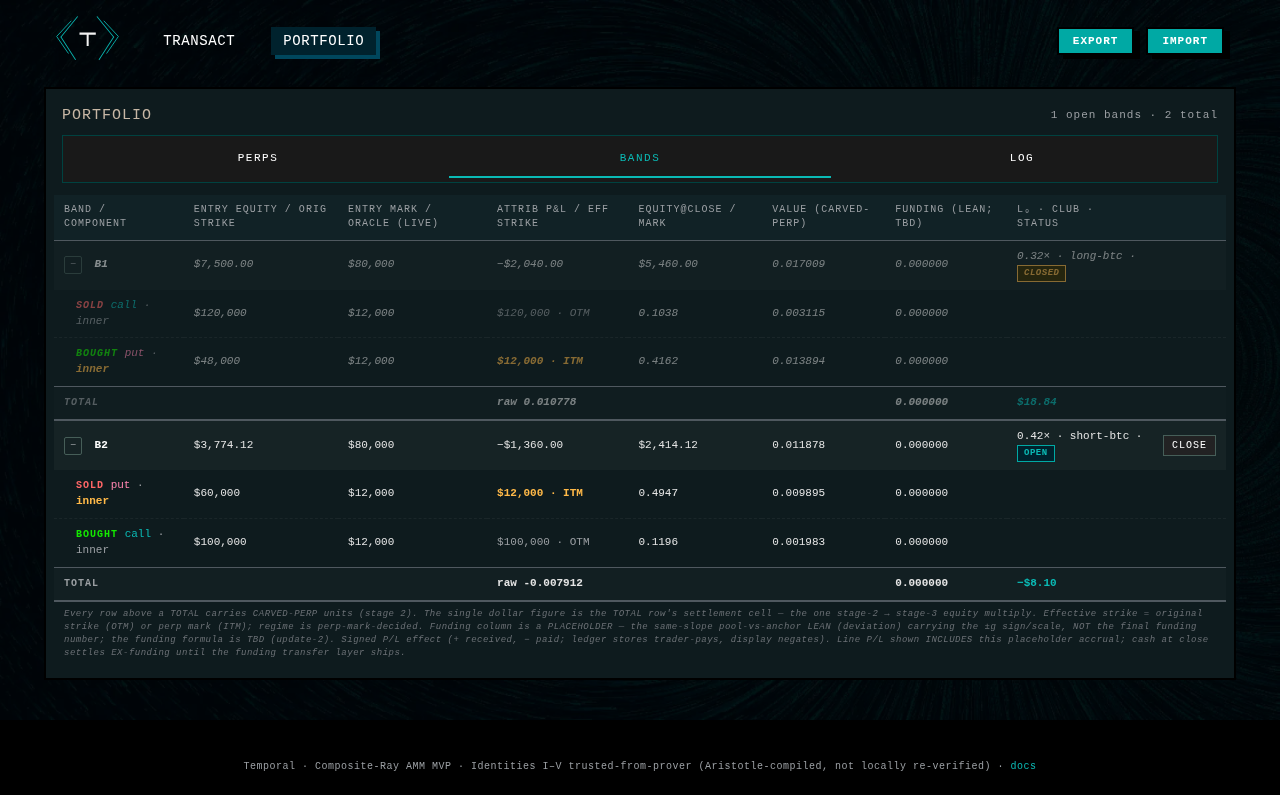
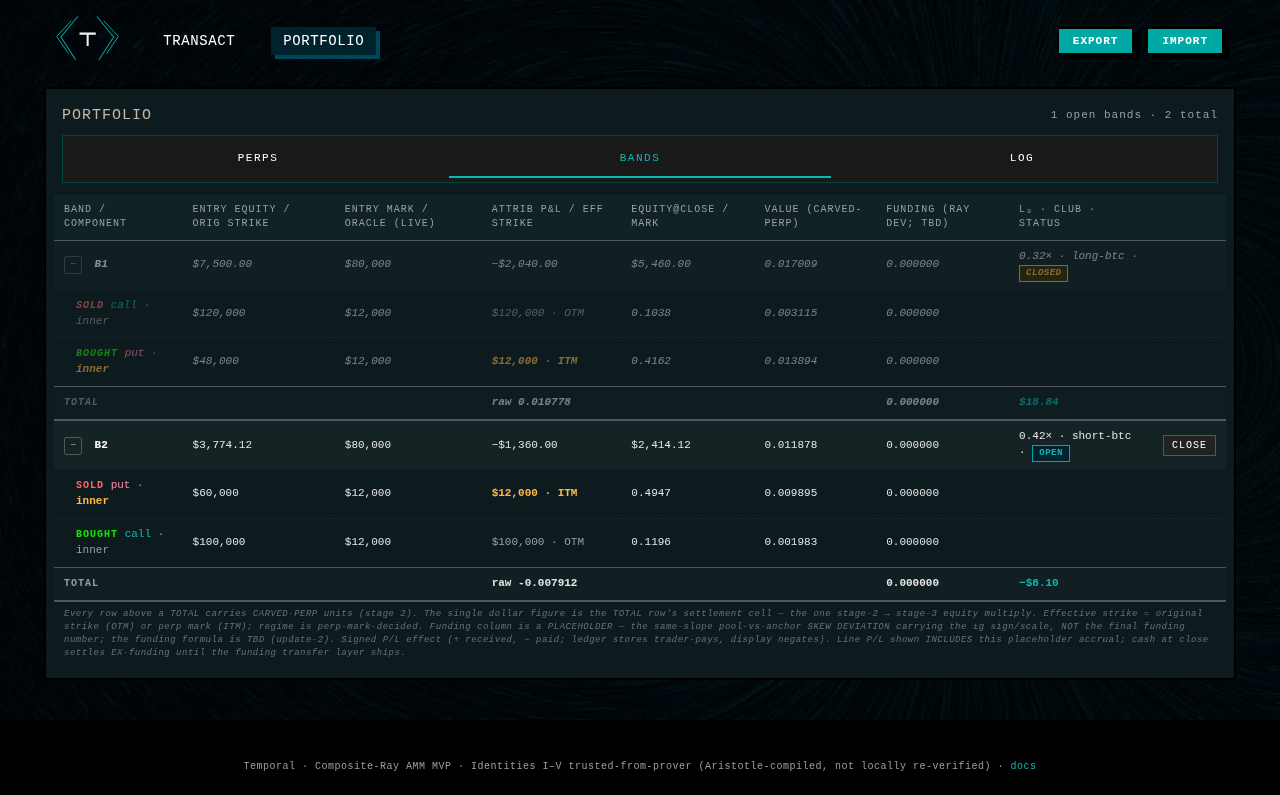
test: TESTER-CONFIRMED vocab relabel (HEAD 5ce1a76c) + evidence/ledger
Live-browser + oracle re-check of the text-only "lean"->"ray deviation"
relabel. FLAG verdict PASS:
- header renders "Funding (ray dev; TBD)"; tooltip "same-slope ray
  deviation from the anchor curve"; units-note "SKEW DEVIATION"; zero
  visible funding-"lean" (TreeWalker + title-attr scan).
- behavior byte-identical, proven two ways: git diff = 3 strings + 7
  comments, the 2 executable lines byte-unchanged; re-run w=11/21 exact,
  m-knob steepens, charts render, funding/pricing/close unchanged.
- standing UI smoke 17/17 PASS x2; run_all 41+5 + vocab_gate PASS;
  blobs canonical; engine md5 unchanged pre/post (tester read-only).

Adds engine/verify/pw_vocab_relabel_acceptance.mjs, evidence/vocab_relabel/,
DIFF_LEDGER 5ce1a76c entry, tester MEMORY.

Claude-Session: https://claude.ai/code/session_01Cs1cJ4yQMcmxqbEVrDpqHd

diff --git a/engine/builds/DIFF_LEDGER.md b/engine/builds/DIFF_LEDGER.md
@@ -18,7 +18,7 @@ transcripts to distill my objections to each version, open questions etc."** (op
 ## ⭐ FEATURE-STATE TABLE (rolling — the at-a-glance inventory; tester updates rows whose feature
 changed, every entry, no exceptions)
 
-| # | Feature (inventory) | Current state (HEAD = **`abd35f4b`** funding SAME-SLOPE pool-vs-anchor DEVIATION placeholder (2026-07-08; deviation-only, formula TBD update-2; OTM lobe, 0 ATM/ITM, 0 on w=½ pool = anti-regression signature) ← **`bb2f8230`** UPDATE-1 unified sell-back close + funding-on-extrinsic (2026-07-07; BOTH legs reverse on the AMM — two-case ITM-to-cash branch RETIRED; funding weight = option-part/extrinsic ⇒ ZERO ITM, single ATM hump; bounded ~$29–200 non-extractable x-drain BY DESIGN) ← prior **`51342574`** -FPNL-NEGZERO display fix (2026-07-07; −0 guard on the 3 funding display cells, 2 expressions; engine+state byte-identical) ← **`4bc939ec`** FUNDING-P/L column slice (2026-07-03, operator entry 425, display/read layer on ratified `0e0a0062`; engine+state byte-identical) ← **`0e0a0062`** trade-point conservation + caption slice (2026-07-02, entries 339/377, #16 PROVISIONAL; chain e148c9b7 ← 7015c22c ← 9fdde1de ← dd6fb955 ← 8f897edc). Prior header kept: latest CANDIDATE = **CONSTMULT `8f897edc`** (constant slope-multiplier lens, operator entries 229/231, gates HEAD on this smoke + skeptic; supersedes invtx `5fea0e8d` tx-strike map); prior promoted HEAD line v28 A14 at-strike `de28c937` / polar-lens `7e1ae39b`), 2026-06-12 — v24 base + polar lens read/write/settle + cleanup C1–C9 + one-line slippage-refresh wire; promoted from FINAL `989752294` per entries 84/94/96/106; v27 `928cde1c` + GH v26c `6cc73563` demoted/retained) | Last changed | Verdict |
+| # | Feature (inventory) | Current state (HEAD = **`5ce1a76c`** VOCAB SCRUB (2026-07-08; TEXT-ONLY relabel of `abd35f4b` — term "lean"→"skew / ray deviation" in the Funding column header/tooltip/units-note + 7 engine comments; NO logic/numeric/signature change; vocab_gate wired HARD) ← **`abd35f4b`** funding SAME-SLOPE pool-vs-anchor DEVIATION placeholder (2026-07-08; deviation-only, formula TBD update-2; OTM lobe, 0 ATM/ITM, 0 on w=½ pool = anti-regression signature) ← **`bb2f8230`** UPDATE-1 unified sell-back close + funding-on-extrinsic (2026-07-07; BOTH legs reverse on the AMM — two-case ITM-to-cash branch RETIRED; funding weight = option-part/extrinsic ⇒ ZERO ITM, single ATM hump; bounded ~$29–200 non-extractable x-drain BY DESIGN) ← prior **`51342574`** -FPNL-NEGZERO display fix (2026-07-07; −0 guard on the 3 funding display cells, 2 expressions; engine+state byte-identical) ← **`4bc939ec`** FUNDING-P/L column slice (2026-07-03, operator entry 425, display/read layer on ratified `0e0a0062`; engine+state byte-identical) ← **`0e0a0062`** trade-point conservation + caption slice (2026-07-02, entries 339/377, #16 PROVISIONAL; chain e148c9b7 ← 7015c22c ← 9fdde1de ← dd6fb955 ← 8f897edc). Prior header kept: latest CANDIDATE = **CONSTMULT `8f897edc`** (constant slope-multiplier lens, operator entries 229/231, gates HEAD on this smoke + skeptic; supersedes invtx `5fea0e8d` tx-strike map); prior promoted HEAD line v28 A14 at-strike `de28c937` / polar-lens `7e1ae39b`), 2026-06-12 — v24 base + polar lens read/write/settle + cleanup C1–C9 + one-line slippage-refresh wire; promoted from FINAL `989752294` per entries 84/94/96/106; v27 `928cde1c` + GH v26c `6cc73563` demoted/retained) | Last changed | Verdict |
 |---|---|---|---|---|
 | 1 | Balancer base | **HEAD (v27) IS the (W) family on the literal Balancer base** F=x^w·y^(1−w) with position-dependent w(u;φ); τ→∞ recovers plain Balancer. **UX-restore `9d22cffd`: v24 dollar defaults BACK** — oracle 80000, x=10 BTC, marginal=$80,000.000 at load (y0=303,448.28 chosen so load is equilibrium — differs from v24's 800,000; flagged below). Same tabs/KPI labels/chart views/perp+band defaults as v24 (tester side-by-side). **Display-fix `1eebfcd6`: Spot($)/Spot KPI + hdr-pool-spot re-pointed to the marginal getMP_raw — $80,000.00 / 1.0000 / "spot $80,000.00" at load (v24 values)** | entry-46 smoke (`928cde1c`, FINDING-R) | DESIRABLE — v24 feel restored; Spot-KPI basis RECONCILED-in-`1eebfcd6` (y0 delta OPEN-for-ruling). **NEW OPEN (entry-46 smoke, FINDING-R): post-rebase Spot($)/hdr-pool-spot show POOL-FRAME getMP_raw, not current-$ poolMark — oracle→90000 makes Spot($) read $71,232 then post-arb $80,000 beside an Oracle box reading 90000; honest at r=1 only. Display-only; engine self-consistent** |
 | 2 | Curve warp w(u) | HEAD: explicit (W) weight-field w(u;φ); warp = field-center φ shift; engine-correct (selfcheck 21 PASS); curve renders across frame. On-screen per-trade warp is SUBTLE (≈0.5–1px; verified elbow-local — sweep shows no τ matches v24's global warp with frozen wings) | entry-46 fix `928cde1c` (anchor overlay) | HEAD — engine PASS; visual subtlety ACCEPTED (override). **ENTRY-46: anchor (w=½) overlay FIXED-verified — k=√(x·y)=1,742 (was 170.83, 104× low); passes 1.15px from the live reserves dot, pixel-confirmed on the entry-45 frame (`I3_anchor_curve_default.png` re-shoot).** **ENTRY-30 obs: warp is premium-driven only (φ=f(dy=±premium)); constant-premium-further-OTM does NOT warp more — operator CHECK-1 claim NOT reproduced, see OPEN -1.** **ENTRY-45 obs: τ visual authority intrinsically small on the default frame — re-anchoring pins the elbow at the live point and wing shift is along-tangent (self-sliding); full-range τ 0.05→3.00 max 153.7px at wing tail yet perceived shape ~unchanged (screenshots); per-click (±0.05) 3.4px max = sub-visible. Redraw FIRES (canvas diff every step). See OPEN -2** **▶ C16 (`abd46149`): GOAL-SEEK readout added — G input ⇒ w′=Engine.goalSeekW(G)=G/(1+G), advisory only (drives nothing); G=3⇒0.7500/γ′3, G=0.5⇒"G≥1 required" NaN-loud, tester live ×2.** **▶ -A14b SEEN-warp (test on `de28c937`, 2026-06-12): the chart-2 option-value reshape DOES depend on kurtosis — for a fixed sold-call trade the |Δψ| reshape grows near the money as τ sharpens (peak at the mode 0.453→0.660→0.794 at τ=1.0/0.3/0.05) but SHRINKS at a fixed OTM strike (θ=1.25: 0.148→0.090→0.045). The UNDERLYING swap-warp is kurtosis-free (row #16). tester live ×2.** **▶ TRADE-POINT `e148c9b7` (working-tree, NOT pushed, 2026-07-02, tester live 14/14 ×2 READ-ONLY): off-ATM trades now GENUINELY move α,β and re-anchor the curve (spec §4 delta 2 — the entry-16 ruling made engine-true): every sweep open moved α (Δα up to −3.9e-3) with chart-1 hash re-anchor; ATM (ρ=1) keeps α,β steady (1.5e-16); post-arb lean now β/α-dependent (w=0.499962, |w−0.5|=3.8e-5 after the standard band — disclosed, measured).** |
@@ -28,7 +28,7 @@ changed, every entry, no exceptions)
 | 6 | Pricing law value∝S^(−γ) | HEAD (v27): value∝S^(−γ_loc) under Reading A (operator-ruled, entry 11 "a"); wings exact power-laws | v27 (+ v28-S1 candidate obs) | DESIRABLE — Reading A ruled. **▶ v28-S1 (`5e1ff278`): pricing READ through the polar lens g_loc=γ·h′_τ(|u|) on chart 2; value∝S^(−γ_loc) preserved in the wings (selfcheck 5c g_wing→γ-scale); elbow rounds with τ, wings frozen — tester-confirmed live** **▶ UX-FIX-2 `d606c3f2` (2026-06-22, tester live ×2 READ-ONLY): strike-MARKER overlay on the chart-2 lensed read RENDERS ON the curve — 182 dot pixels, sold-call red #FF6767 (φ56.3°/$120k) + bought-put green #14E800 (φ31°/$48k) at the lensed smooth-paste mark ψ≈0.15-0.16 (dy 2-3px), NOT floating at the old un-lensed ~0.85/0.95; 0 pageerrors (the `ReferenceError: psiAt is not defined` ×4 fixed by inlining `Engine.gLoc`+`Engine.markLensed` in scope). Engine/curve byte-unchanged.** **▶ PKG-ITM v2 `9fdde1de` (working-tree, 2026-07-02, tester spec-§6 acceptance ×2 byte-stable READ-ONLY): continuation wings still EXACT power-laws of exponent m·γ (CM11 V(2ρ)/V(ρ)=2^(∓g) ≤1e-12); quotes reshape everywhere EXCEPT ATM (fixed point g^g/(g+1)^(g+1)) — g=2: 1.2 drops 0.1235→0.1029, 0.8 rises 0.1852→0.2315, past-seam = linear parity exactly. Disclosed entailment of the operator-ruled linear re-seam (entry 287), not a regression.** **▶ DISPLAY-SLICE `a6ca02f3` (2026-07-02, tester live ×2 READ-ONLY): chart-2 DEPICTION replaced (draw-layer only; engine byte-identical to `9fdde1de`, node-verified): plots TRUE per-unit V per wing across ALL strikes via the SAME Engine.markLensed read settlement uses (single-basis, NaN-loud), OTM AND ITM, wings CROSS at ATM (the Deribit-X, operator entries 292/295); %/$ toggle — % = fraction of the wing's own escrow unit (saturates →1 deep ITM, measured 0.968@φ88°/φ2°), $ = ×K (put) / ×S (call) (ITM tails = straight K−S / S−K lines; put tail exits at the 1.25×S clamp, x=658 vs analytic 660; no NaN/blowup). Crossing measured both views: v=0.15 (% / analytic 0.1481), $12,013 ($ / analytic $11,852).** |
 | 7 | ITM American smooth-pasting | HEAD (v27): ported with g→γ_loc (Reading A); seam value/slope selfcheck PASS; mark/markFrac split present. NOT carried from the GH line: payoff naked-leg uncap + x-range −90..+200 (HEAD payoff caps at 1, ±50%) — NOTES D9/D10 **▶ v28-S2 (`b53ace99`): SETTLE-side lensed — `markEff`/`legValueUnified` price the ITM leg LENSED at the reciprocal sNorm mode; one-ITM-leg path live-verified (steep pool, sold-call driven ITM → settled_cash_leg=sold/live_leg=bought, raw_net finite); near-ATM g_loc≈0 settles finite (markLensed g=0→1, no NaN).** | v27 (+ Task-2 diff) (+ v28-S1 candidate obs) | HEAD — seam PASS; 2 GH-line payoff upgrades unported (noted for future). **▶ v28-S1 (`5e1ff278`): lens twin `markLensed` (Reading-A smooth-paste with strike-local g) — seam value/slope continuous incl. g<1 (selfcheck 4a/4b), and the g=0/S*=0 ATM point returns finite boundary value 1 (no NaN, MUST-APPLY-2) — tester live-probe + selfcheck 4c agree** **▶ R-218 INVTX (`5fea0e8d`): SETTLEMENT at the CHOSEN strike while the pool FINANCES at θ_tx (two-strike)** — sold-call-driven ITM close settled_cash_leg='sold' at K_inner=$120k (chosen θ=1.5) with the swap/reversal at frozen K_tx=$151,491; raw_net=−4.51e-3 / payout=−$9.18 finite. tester live ×2. **▶ CONSTMULT HEAD `8f897edc` INHERITED-CONFIRM (2026-06-13, READ-ONLY, skeptic FLAG-OMISSION #2 close): ITM American smooth-paste settle-to-cash FIRES through the lens — forced real ITM (poolMark/oracle=2.669>sold-call ray 1.5, no rebase) → settled_cash_leg='sold', live_leg='bought', trader_payout=$3.78 finite; live ×2 + Node-oracle.** **▶ UX-FIX-2 `d606c3f2` (2026-06-22, tester live ×2): the ITM/smooth-paste READ is unchanged; the strike-MARKER overlay drawn on top of the chart-2 lensed read now RENDERS the sold/bought dots ON the curve at the lensed smooth-paste mark (was a `ReferenceError` ⇒ 0 dots on `f6029182`); 182 dot pixels, dy 2-3px, 0 pageerrors.** **▶ PKG-ITM v2 `9fdde1de` (working-tree, 2026-07-02, tester spec-§6 acceptance ×2 byte-stable READ-ONLY): markLensed LINEAR RE-SEAM — power continuation ρ^(∓g)/(g+1) welded C¹ onto the LINEAR parity intrinsic; put seam ray θ·g/(g+1) (dollar S*=K·g/(g+1): MEASURED 0.667K at g=2 / 0.857K at g=6 on DOM output), call θ·(g+1)/g; boundary fraction 1/(g+1) both wings; V=max(mark,intrinsic) holds IDENTICALLY (O2 value_ge_intrinsic tfp + CM10 + DOM sign table: belowIntrinsic EMPTY at 52 readings — the entry-286 below-intrinsic defect on dd6fb955 [16 spots, max −0.248] is GONE); paper cells reproduced EXACT at 4dp both columns; C¹ DOM quotients within ±0.03. Replaces the power-intrinsic arms; pre-fix build retained as temporal_mvp_v28_lens_powerarm.html. Gates CM4-v2/CM4-v2-C1/CM10/CM11 (lens 16/16) + a16 5/5.** **▶ DISPLAY-SLICE `a6ca02f3` (2026-07-02, tester live ×2 READ-ONLY): the v2 seams are now DRAWN on chart-2 — continuation SOLID, parity/intrinsic tail DASHED per wing; seam pixels measured at put S/K=0.667-class (dash onset φ≈56.5°, NOT the old 0.444/φ66°) and call θ=0.667-class (φ≈33.9°), boundary height pixel-read 0.3307 vs analytic 1/(g+1)=1/3; band strike markers re-anchored to the same markLensed read in the ACTIVE %/$ view, wing from b.sold_wing/b.bought_wing — dots ON the plotted curves BOTH views (dR/dG ≤1.2px vs analytic). ONE cosmetic FLAG: the $-view put tail dash is AA-swallowed on the steep clamp segment (reads solid; row coverage 0.965) — rolling -B301-DASH.** **▶ DASH-FIX `7015c22c` (working-tree, 2026-07-02, tester targeted recheck 17/17 ×2 READ-ONLY): -B301-DASH RESOLVED — parity-tail dash made screen-space `[8,6]·cssScale` + plotted value clamped `min(v, 3·yMax)` (draw-layer only; engine+state byte-identical to `9fdde1de`): $ put-tail row coverage 0.9647→0.4941, all four tails legibly dashed, continuations solid (exact 4dp match to a6ca02f3); in-frame geometry anchors EXACT (crossing x462/v0.15, boundary 0.3307, $ crossing $12,013, clamp exit x658); seam still 0.667-class. Display-slice acceptance = PASS.** **▶ UPDATE-1 `bb2f8230` (2026-07-07, tester live 10/10 ×2 + smoke 17/17 ×2 READ-ONLY): the entry-405 close-(b) BUILT — the two-case ITM-to-cash branch is RETIRED; closeBand values BOTH legs at the ONE pre-close snapshot s0 (`legPrice`, markLensed = linear parity past S* ⇒ ITM tallies identically) and reverses BOTH on the AMM via `tradeUpdateAt` @ rho_close. Live: OTM close settled_cash_leg=null/live_leg='both'; a GENUINELY-ITM leg (sold-put θ=5 ≥ sNorm0≈1 via oracle 12000+arb) STILL reverses on the AMM (settled=null, log 'both legs reversed on AMM'); payout CONTINUOUS across the OTM→ITM crossing (crossStep 0.48× median — the retired two-case twin `51342574` still settles a leg to CASH on the ITM side). settled_cash_leg is now ALWAYS null. Gates CM6-v3 (drain-documented) + CM12 (payout-continuity) replace the retired CM6-v2 frozen-arc round-trip; lens 31/5.** |
 | 8 | Uniform strike registration θ=sNorm(K) | HEAD (v27): sNormStrike ((W) inverse) defined+exported (round-trip 1.46e-15, NaN-loud) but **export-only — no regLeg wiring**; payoff sweeps price-ratio (1+r); the v26c one-mark-across-display/exec/chart guarantee + all-γ crossover@K are UNVERIFIED on (W) — NOTES D11/D13/D16 | v27 (+ Task-2 diff) | PARTIAL — function present, uniform wiring unported (noted for future) **▶ CONSTMULT HEAD `8f897edc` INHERITED-CONFIRM (2026-06-13, READ-ONLY, skeptic FLAG-OMISSION #2 close): strike registration θ=K/oracle live-confirmed consistent — K=$120k/$80k/$48k → θ=1.5/1.0/0.6, markLensed 0.1667/0.25/0.15 finite, S*=g/(g+1)=0.5; display-mark + chart-ray share the single sNorm coord; live ×2.** |
-| 9 | Funding | HEAD (v27): re-pointed to price-anchor p=P, γ→±γ_loc [theory-risk-accepted] — diverges from the GH line's locked w=½ funding; φ-anchor/funding lemma OPEN [needs-Aristotle] | **`abd35f4b` same-slope DEVIATION placeholder (2026-07-08)** ← **`bb2f8230`** funding-extrinsic (2026-07-07) ← `51342574` -FPNL-NEGZERO −0 guard (2026-07-07) ← `4bc939ec` funding-P/L column (entry 425, 2026-07-03) | DISPLAY LAYER: DESIRABLE-delivered (entry 425, see 4bc939ec addendum at row end); funding THEORY status unchanged: OPEN — theory-risk; not UI-exercised on v27. **▶ v28-S1 (`5e1ff278`): funding routes THROUGH the lens (±g_loc replaces ±2). UI-exercised: with S≠1 (steep pool), ATM funding=0 (g_loc→0), OTM call +2.23e-3 / put −2.23e-3 (opposite-signed, equal magnitude), all finite — tester-confirmed. Operator RULED funding-through-lens accepted (entry-93 "5 idc, same geometric thing")** **▶ CONSTMULT HEAD `8f897edc` INHERITED-CONFIRM (2026-06-13, READ-ONLY, skeptic FLAG-OMISSION #2 close): funding now m-COUPLED ±g_loc=±m·γ per OPERATOR ENTRY 232 [verbatim L1865] — live-confirmed SCALES with m (call θ=1.5 +3.68e-4/+4.29e-4/+5.06e-4 at m=1/2/4; sub-linear: g∝m but markLensed shrinks), SIGN FLIPS call(+)/put(−), all finite/sane on a steepened pool; FLAG-OMISSION #1 RESOLVED-BY-RULING; live ×2.** **▶ PKG-ITM v2 `9fdde1de` (2026-07-02): funding MAGNITUDES re-scale wherever the consumed mark changed (shared-helper entailment; formula κ·(±g)·N·mark·(S−1)/S untouched); funding REDESIGN excluded + operator-gated (entries 295/296 study).** **▶ FUNDING-P/L COLUMN `4bc939ec` (PROMOTED HEAD 2026-07-03, operator entry 425, tester live 16/16 ×2 byte-stable READ-ONLY): the portfolio bands-table Funding column now displays the SIGNED P/L EFFECT = −Σ stored trader-pays accruals (+ = line received, − = line paid) at band/component/total rows, and the Total-row line P/L is funding-INCLUSIVE (dollarFigure = L₀·raw_net·equity + fundingP/L×oracle). SIGN INVERSION vs the pre-425 display is INTENDED (R6 gate-#2 sign pin): the old column printed the raw stored trader-pays sum (a paying line read POSITIVE and never entered the $ P/L); the new column negates it (payer reads NEGATIVE). Live-confirmed ON SCREEN (2 opposite bands, oracle 88000 via #kpi-oracle, 24×#btn-tick): PAYER B1 (long sold-call$120k/bought-put$48k) cell −0.000469, P/L −$4.50→−$45.75 FALLS; RECEIVER B2 (short sold-put$60k/bought-call$100k) cell +0.000531, P/L $5.53→$52.25 RISES; cell==−Σstored (6dp); ΔP/L==cell×oracle; band cell==Σ component cells; disclosure header th + units-note + $-cell tooltip all rendered (includes-accrued / EX-funding-at-close). Stored ledger + fundingTick + closeBand BYTE-UNTOUCHED (engine+state blocks byte-identical to 0e0a0062, tester node-compared) — close cash still settles EX-funding until the parked part-2 transfer layer ships (disclosed on screen). Cosmetic nit -FPNL-NEGZERO: zero funding rendered `-0.000000` pre-tick — **RESOLVED-in-`51342574`** (2026-07-07, −0 normalized at the 3 display cells; tester live 12/12 ×2: all 8 pre-tick cells exactly `0.000000` no minus, post-tick payer/receiver signs+magnitudes byte-equal to the 4bc939ec pass).** **▶ UPDATE-1 `bb2f8230` (2026-07-07, operator entries 450/451; tester live A6 ×2 READ-ONLY): funding WEIGHT changed full-mark → EXTRINSIC = markLensed − max(intrinsic parity,0). Behaviour now a SINGLE HUMP peaking at ATM (strike=mode), fading to 0 both ways and EXACTLY 0 past the smooth-paste seam S* ⇒ funding ZERO deep-ITM (was: full mark funded intrinsic forever). Live ladder (steepened pool S=0.14, m=6/g=2.25): call peak −3.70e-2 @ ATM, =0 at θ=0.30·mode (past call seam 0.692); put peak +3.70e-2 @ ATM, =0 at θ=3.0·mode (past put seam 1.444); call/put OPPOSITE sign. The ±g·(S−1)/S SIGN + κ,N,dt + the S≤0 guard + the through-the-lens ±g_loc (entry 232) are UNCHANGED — ONLY the weight. Gate FE (funding-extrinsic, negative-controlled: old full-mark ≠0 past S*). This is the operator-ruled 'funding on the option-part value, OTM only' (entry 451). INTENDED sign/shape change vs the old build, NOT a regression.  **▶ SAME-SLOPE DEVIATION `abd35f4b` (PROMOTION-GATING 2026-07-08, operator entries 458/460/462; tester focused live 13/13 ×2 + smoke 17/17 ×2, READ-ONLY): funding WEIGHT changed from the update-1 extrinsic-hump / old ext·(S−1)/S → the REAL same-slope pool-vs-anchor RAY-ANGLE-RATIO deviation dev=|c·ln(θ/mode)|, c=(g_a−g)/(g_a+1), g=m·γ (pool, γ LIVE), g_a=m (anchor w=½). Now an OTM LOBE: 0 at ATM (ρ=1), GROWS OTM (call +g / put −g, opposite sign, reciprocal-ρ mirror), EXACTLY 0 ITM, and EXACTLY 0 ∀ strikes on a SYMMETRIC w=½ pool (the pool-lean signature / anti-regression KILLER — the old weight funded this pool, the recurring ~20–30× regression the operator flagged). Live vm-in-page ladder (leaned w=0.30, mode getSNorm=2.333, m=6/g=2.571): call 0.0615→1.746 across ρ1.05→4, put −0.0646→−1.746 across ρ0.95→0.25, both 0 at/inside ATM; symmetric pool 0 everywhere at m=6 AND m=3. DEVIATION-ONLY PLACEHOLDER — the actual funding FORMULA (HL capped premium→rate) is DEFERRED to UPDATE-2 (entry 462); NO cap/knob. Gate FE.2/FE.3 RETIRED → FS.1–FS.6 (KILLER FS.2b). UI: Funding column header + units-note re-labelled "Funding (lean; TBD)" placeholder disclosure, live-rendered. INTENDED shape/label change, NOT a regression. Perps table untouched. F1 (oracle-independence-as-final) = operator-tier OPEN, rides UPDATE-2.** |
+| 9 | Funding | HEAD (v27): re-pointed to price-anchor p=P, γ→±γ_loc [theory-risk-accepted] — diverges from the GH line's locked w=½ funding; φ-anchor/funding lemma OPEN [needs-Aristotle] | **`5ce1a76c` vocab relabel ("lean"→"ray dev / skew deviation" in the Funding column header/tooltip/units-note; TEXT-ONLY, engine byte-identical, 2026-07-08)** ← **`abd35f4b` same-slope DEVIATION placeholder (2026-07-08)** ← **`bb2f8230`** funding-extrinsic (2026-07-07) ← `51342574` -FPNL-NEGZERO −0 guard (2026-07-07) ← `4bc939ec` funding-P/L column (entry 425, 2026-07-03) | DISPLAY LAYER: DESIRABLE-delivered (entry 425, see 4bc939ec addendum at row end); funding THEORY status unchanged: OPEN — theory-risk; not UI-exercised on v27. **▶ v28-S1 (`5e1ff278`): funding routes THROUGH the lens (±g_loc replaces ±2). UI-exercised: with S≠1 (steep pool), ATM funding=0 (g_loc→0), OTM call +2.23e-3 / put −2.23e-3 (opposite-signed, equal magnitude), all finite — tester-confirmed. Operator RULED funding-through-lens accepted (entry-93 "5 idc, same geometric thing")** **▶ CONSTMULT HEAD `8f897edc` INHERITED-CONFIRM (2026-06-13, READ-ONLY, skeptic FLAG-OMISSION #2 close): funding now m-COUPLED ±g_loc=±m·γ per OPERATOR ENTRY 232 [verbatim L1865] — live-confirmed SCALES with m (call θ=1.5 +3.68e-4/+4.29e-4/+5.06e-4 at m=1/2/4; sub-linear: g∝m but markLensed shrinks), SIGN FLIPS call(+)/put(−), all finite/sane on a steepened pool; FLAG-OMISSION #1 RESOLVED-BY-RULING; live ×2.** **▶ PKG-ITM v2 `9fdde1de` (2026-07-02): funding MAGNITUDES re-scale wherever the consumed mark changed (shared-helper entailment; formula κ·(±g)·N·mark·(S−1)/S untouched); funding REDESIGN excluded + operator-gated (entries 295/296 study).** **▶ FUNDING-P/L COLUMN `4bc939ec` (PROMOTED HEAD 2026-07-03, operator entry 425, tester live 16/16 ×2 byte-stable READ-ONLY): the portfolio bands-table Funding column now displays the SIGNED P/L EFFECT = −Σ stored trader-pays accruals (+ = line received, − = line paid) at band/component/total rows, and the Total-row line P/L is funding-INCLUSIVE (dollarFigure = L₀·raw_net·equity + fundingP/L×oracle). SIGN INVERSION vs the pre-425 display is INTENDED (R6 gate-#2 sign pin): the old column printed the raw stored trader-pays sum (a paying line read POSITIVE and never entered the $ P/L); the new column negates it (payer reads NEGATIVE). Live-confirmed ON SCREEN (2 opposite bands, oracle 88000 via #kpi-oracle, 24×#btn-tick): PAYER B1 (long sold-call$120k/bought-put$48k) cell −0.000469, P/L −$4.50→−$45.75 FALLS; RECEIVER B2 (short sold-put$60k/bought-call$100k) cell +0.000531, P/L $5.53→$52.25 RISES; cell==−Σstored (6dp); ΔP/L==cell×oracle; band cell==Σ component cells; disclosure header th + units-note + $-cell tooltip all rendered (includes-accrued / EX-funding-at-close). Stored ledger + fundingTick + closeBand BYTE-UNTOUCHED (engine+state blocks byte-identical to 0e0a0062, tester node-compared) — close cash still settles EX-funding until the parked part-2 transfer layer ships (disclosed on screen). Cosmetic nit -FPNL-NEGZERO: zero funding rendered `-0.000000` pre-tick — **RESOLVED-in-`51342574`** (2026-07-07, −0 normalized at the 3 display cells; tester live 12/12 ×2: all 8 pre-tick cells exactly `0.000000` no minus, post-tick payer/receiver signs+magnitudes byte-equal to the 4bc939ec pass).** **▶ UPDATE-1 `bb2f8230` (2026-07-07, operator entries 450/451; tester live A6 ×2 READ-ONLY): funding WEIGHT changed full-mark → EXTRINSIC = markLensed − max(intrinsic parity,0). Behaviour now a SINGLE HUMP peaking at ATM (strike=mode), fading to 0 both ways and EXACTLY 0 past the smooth-paste seam S* ⇒ funding ZERO deep-ITM (was: full mark funded intrinsic forever). Live ladder (steepened pool S=0.14, m=6/g=2.25): call peak −3.70e-2 @ ATM, =0 at θ=0.30·mode (past call seam 0.692); put peak +3.70e-2 @ ATM, =0 at θ=3.0·mode (past put seam 1.444); call/put OPPOSITE sign. The ±g·(S−1)/S SIGN + κ,N,dt + the S≤0 guard + the through-the-lens ±g_loc (entry 232) are UNCHANGED — ONLY the weight. Gate FE (funding-extrinsic, negative-controlled: old full-mark ≠0 past S*). This is the operator-ruled 'funding on the option-part value, OTM only' (entry 451). INTENDED sign/shape change vs the old build, NOT a regression.  **▶ SAME-SLOPE DEVIATION `abd35f4b` (PROMOTION-GATING 2026-07-08, operator entries 458/460/462; tester focused live 13/13 ×2 + smoke 17/17 ×2, READ-ONLY): funding WEIGHT changed from the update-1 extrinsic-hump / old ext·(S−1)/S → the REAL same-slope pool-vs-anchor RAY-ANGLE-RATIO deviation dev=|c·ln(θ/mode)|, c=(g_a−g)/(g_a+1), g=m·γ (pool, γ LIVE), g_a=m (anchor w=½). Now an OTM LOBE: 0 at ATM (ρ=1), GROWS OTM (call +g / put −g, opposite sign, reciprocal-ρ mirror), EXACTLY 0 ITM, and EXACTLY 0 ∀ strikes on a SYMMETRIC w=½ pool (the pool-lean signature / anti-regression KILLER — the old weight funded this pool, the recurring ~20–30× regression the operator flagged). Live vm-in-page ladder (leaned w=0.30, mode getSNorm=2.333, m=6/g=2.571): call 0.0615→1.746 across ρ1.05→4, put −0.0646→−1.746 across ρ0.95→0.25, both 0 at/inside ATM; symmetric pool 0 everywhere at m=6 AND m=3. DEVIATION-ONLY PLACEHOLDER — the actual funding FORMULA (HL capped premium→rate) is DEFERRED to UPDATE-2 (entry 462); NO cap/knob. Gate FE.2/FE.3 RETIRED → FS.1–FS.6 (KILLER FS.2b). UI: Funding column header + units-note re-labelled "Funding (lean; TBD)" placeholder disclosure, live-rendered. INTENDED shape/label change, NOT a regression. Perps table untouched. F1 (oracle-independence-as-final) = operator-tier OPEN, rides UPDATE-2.** |
 | 10 | Slippage basis (mpGeom) | HEAD (v27): mpGeom collapses to getMP_raw (price==slope on (W), proven, selfcheck L4). NOT carried: v26a's honest $-tooltip ("Layer-1 reserve-USD, not trader honest-dollar") — HEAD ships the v24 tooltip — NOTES D2 **▶ v28-S2 (`b53ace99`): executed slippage plain v24. FINDING-RT (OPEN, INHERITED-v24): instant open→close round-trip on a two-OTM-leg band is TRADER-favourable (raw_net>0, scales with slippage; byte-identical in S1+v24) — brief expected pool-favourable; sign-convention escalation. Band-PREVIEW xoracle inflation still carried (entry-96 bug-batch).** | **▶ v28-lens HEAD `7e1ae39b` (one-line wire): the band SLIPPAGE readout now LIVE-RECOMPUTES on a τ change (previewBand re-runs on the τ stepper event) — confirmed non-stale, 4 distinct values across the τ range, monotone-with-τ (manager-derived ~0.25→0.76% trend), tester live ×2. Root: lensed/τ-threaded legPrice ⇒ τ-dependent leg2 reserve move ⇒ τ-dependent s_band. No engine/math change (display-refresh wire). FINDING-RT still OPEN/INHERITED-v24.** | v28-lens HEAD `7e1ae39b` (slippage-refresh wire) | DESIRABLE math; $-label honesty unported (noted). **ENTRY-46: BOTH entry-45 band-panel display defects RECONCILED-in-`928cde1c`, tester live ×2 — (a) stale-on-reject: `clearBandPreviewOut()` wired on every reject path, STALE-CHECK FALSE on swap/pill/oversize; (b) audit strip prints raw engine USD exactly (28,453.17/11,470.09/39,923.26 on the entry-45 reference band — was $3.19B).** **ENTRY-45 (historical): 2 display defects: (a) STALE-ON-REJECT — previewBand reject paths (!sim.ok / club guards) set the warn but DON'T clear summary/audit ⇒ slippage/N_buy/net-cash retain the PREVIOUS direction's numbers next to the rejection banner (the operator's screenshot state); (b) ×ORACLE UNIT INFLATION — pv-net-cash/pv-dy-sold/pv-dy-bought multiply raw-USD engine dy by oracle again ⇒ "$3,193,860,736" net cash on a $303k pool (engine netPoolY=39,923.26 raw USD, correct; display ×80,000)**  **▶ v28-S1 (`5e1ff278`): executed slippage is plain v24 (lens does NOT touch it; the slippage % readout is sane, e.g. 1.9322% ≈ $73.62). BUT the band AUDIT strip nets (pv-net-cash/pv-dy-*) carry the v24-base ×oracle DOUBLE-MULTIPLY ($618M on an $800k pool) — VERIFIED byte-identical to the v24 base (V_usd already ×oracle L1755, display ×oracle again L3050-52); INHERITED-v24, not a Stage-1 regression; OPEN (candidate v24 known-gap fix).** **▶ R-218 INVTX (`5fea0e8d`): reserve-depth guard now keys off N·K_tx (the bigger inverse-lens swap) — far-OTM CAPACITY SHRINKS** (bought call θ=2.0: max N 2.25→1.746, 0.776×; rejects at N·K_tx=$411,959 with verbatim $ reason though N·chosen_K under depth; no silent cap). tester live ×2. **▶ TRADE-POINT `e148c9b7` (2026-07-02, tester live ×2): depth guard MOVED to the trade point — reject when N·K_tx ≥ 0.9·(w·y·ρ^w); put-wing capacity genuinely THINNER (measured: reject at $200,000 tx-ray depth where the old y−β guard held $400,000; ρ=0.25, w=½), call-wing deeper; verbatim reject cites "pool cash depth at the tx-ray"; UI warn banner + disabled execute + notional un-mutated (no silent cap).** |
 | 11 | Dollar/settlement pipe | Reused byte-identical from the v24 base; curve-independent **▶ v28-S2 (`b53ace99`): the LENSED value is now the unit of account (operator entry 96 RULED) — open-band portfolio value moves with τ (Δ=4.544e-2 across 0.3→2); closed bands freeze settlement $; NO mixed-basis (8 carved-perp-unit cells carry no `$`; exactly 1 $ settlement cell; carved perp slice un-lensed, not summed) — tester live ×2.** | — (unchanged) | DESIRABLE — stable (reuse) **▶ CONSTMULT HEAD `8f897edc` INHERITED-CONFIRM (2026-06-13, READ-ONLY, skeptic FLAG-OMISSION #2 close): dollar/settlement pipe live-confirmed on `8f897edc` BOTH regimes — OTM-expiry (both legs reverse on AMM, trader_payout $0.072) + forced-ITM ($3.78), raw_net finite, reserves finite, round-trip restore EXACT (|dx|=|dy|=0); NO NaN, NO absurd magnitude; live ×2.** **▶ PKG-ITM v2 `9fdde1de` (2026-07-02, tester live READ-ONLY): callers byte-unchanged; BOTH regimes re-confirmed on the re-seamed mark — OTM band close (both legs reversed on AMM, raw_net −1.97e-4 finite) AND deep-ITM close (sold-put θ=5: settled_cash_leg='sold', live_leg='bought', trader_payout −$8.09 finite, pool finite). Smoke 17/17.** **▶ TRADE-POINT `e148c9b7` (2026-07-02, tester live ×2): close = FROZEN-ARC exact reversal (revertArc) — 5-band sweep (both wings, deep OTM, m=1+m=2) restores (x,y,w,α,β) machine-exact; intervening-trade close nets the closer's OWN increments out EXACTLY (resid ≤9.1e-13) and keeps everyone else's moves; ITM settle path unchanged (smoke S11 sold-put settled-to-cash, payout finite); legacy no-arc bands fall back to today's path (FLAG-5 pinned default).** |
 | 12 | getMP_raw price-coord gotcha | HEAD (v27): price == geometric slope EXACTLY on (W) (no e^μ factor); code comment warns against re-introducing the GH factor on a cross-port | v27 | DESIRABLE — moot by construction, warning kept |
@@ -67,7 +67,7 @@ audits this list against the raw transcripts to catch unresolved-presented-as-re
 
 ### OPEN (operator asked / objected; no recorded resolution)
 
--FUNDING-SAMESLOPE. **★ FUNDING = SAME-SLOPE POOL-vs-ANCHOR DEVIATION (operator entries 458/459/460/462, 2026-07-07).** Entry 458 [verbatim-transcript] (`:3386`) confirmed the TARGET (*"funding lives only out-of-the-money, zero at the money and zero in-the-money, fading smoothly to zero at the ATM edge? YES"*) → **RESOLVED(evidence)-in-`abd35f4b`** (tester A3 leaned profile: OTM lobe, 0 ATM, 0 ITM, ×2). Entry 459 (`:3392`) same-slope METHOD + entry 460 (`:3398`, RULING *"simple english -- this is a regression happpened around 20-30 times"* — build the real deviation + anti-regression HARD GATE) → **RESOLVED(evidence)-in-`abd35f4b`** (FS.2b KILLER: 0 on a symmetric w=½ pool ∀OTM, tester live ×2; old ext/moneyness-proxy weight retired). Entry 462 (`:3410`) [verbatim-transcript] *"dont plug in a formula yet, just get deviation right and note the actual funding formula tbd with hyperliquid funding formula with the proxy … in hext update with the exploit patch"* → deviation-only build DELIVERED + labelled ("Funding (lean; TBD)" live). **STILL OPEN (rides UPDATE-2): the actual funding FORMULA (HL capped premium→rate) is un-built; and F1 — whether the deviation is oracle-independent AS FINAL — is an operator-tier call.** [tester 2026-07-08]
+-FUNDING-SAMESLOPE. **★ FUNDING = SAME-SLOPE POOL-vs-ANCHOR DEVIATION (operator entries 458/459/460/462, 2026-07-07).** Entry 458 [verbatim-transcript] (`:3386`) confirmed the TARGET (*"funding lives only out-of-the-money, zero at the money and zero in-the-money, fading smoothly to zero at the ATM edge? YES"*) → **RESOLVED(evidence)-in-`abd35f4b`** (tester A3 leaned profile: OTM lobe, 0 ATM, 0 ITM, ×2). Entry 459 (`:3392`) same-slope METHOD + entry 460 (`:3398`, RULING *"simple english -- this is a regression happpened around 20-30 times"* — build the real deviation + anti-regression HARD GATE) → **RESOLVED(evidence)-in-`abd35f4b`** (FS.2b KILLER: 0 on a symmetric w=½ pool ∀OTM, tester live ×2; old ext/moneyness-proxy weight retired). Entry 462 (`:3410`) [verbatim-transcript] *"dont plug in a formula yet, just get deviation right and note the actual funding formula tbd with hyperliquid funding formula with the proxy … in hext update with the exploit patch"* → deviation-only build DELIVERED + labelled ("Funding (lean; TBD)" live; the "lean" wording RE-LABELLED to "Funding (ray dev; TBD)" in `5ce1a76c` per operator entry 474). **STILL OPEN (rides UPDATE-2): the actual funding FORMULA (HL capped premium→rate) is un-built; and F1 — whether the deviation is oracle-independent AS FINAL — is an operator-tier call.** [tester 2026-07-08]
 
 
 -TP339-RATIFY. **★ TRADE-POINT BUILD `e148c9b7` — 5 SPEC PINNED DEFAULTS — RESOLVED-by-RULING 2026-07-03: operator entry 425 [verbatim-transcript] `history/operator/2026-06-10_kurtosis-curve-family-brief.md:3191` *"trade poont ok"* — trade-point build RATIFIED (inventory #16 label flip manager/skeptic-executed, commit `9b32de6`). Historical scope note kept: ⚖ entry 405 (close = first-class trade, b) had already re-scoped FLAG-2/FLAG-3 (the CLOSE half) to the close-(b) spec — that half lives on as rolling -CLOSE405 (still OPEN, build parked per entry 424); FLAG-1/4/5 ratified. [tester update 2026-07-03; prior manager-backfill text retained below] [manager-backfill 2026-07-03]
@@ -2569,3 +2569,21 @@ confirmed; no gating findings.**
 **EVIDENCE:** `evidence/funding_sameslope_acceptance/` (RESULT_run{A,B}.json BYTE-IDENTICAL modulo run label; PROFILE_run{A,B}.json = the numeric strike ladders, A==B; RUN_LOG_{A,B}.txt; FUNDING_bands_label_run{A,B}.png — the on-screen "Funding (lean; TBD)" header + placeholder units-note) + `evidence/update1_close_acceptance/smoke/` (standing S11-v2 17/17 ×2). Harnesses `engine/verify/pw_funding_sameslope_acceptance.mjs` (A|B) + `engine/verify/pw_update1_standing_smoke.mjs`. Build md5 `abd35f4b…` UNCHANGED pre/post every run (READ-ONLY on the engine).
 
 **Table rows updated:** #9 (funding weight → same-slope ray-ratio deviation, OTM lobe, 0 ATM/ITM, 0 on w=½; placeholder + the column label/units-note) + #15 (file-safety GREEN on this build) + header re-keyed to HEAD `abd35f4b`. **Rolling list (OPERATOR OPEN QUESTIONS):** +funding target (458→RESOLVED), same-slope method (459→RESOLVED), anti-regression ruling (460→RESOLVED), deviation-only scope (462→RULED); actual-formula + F1 oracle-independence → OPEN (ride UPDATE-2). **Reconciliation list:** +1 row (funding-formula-un-built / F1 oracle-independence — OPEN, parked to UPDATE-2). **VERDICT = PASS — no gating findings; the two recorded deltas are INTENDED (operator-directed placeholder), honestly labelled on screen.**
+
+### 5ce1a76c — VOCAB SCRUB: un-endorsed term "lean" → "skew / ray deviation" (TEXT-ONLY relabel) (operator entries 474 RULED / 476 authorize; controlled-vocabulary gate `vocab_gate.sh` wired HARD) on `abd35f4b`   [status: PROMOTION-GATING ACCEPTANCE — tester live acceptance **9/9 PASS ×2 byte-identical** + STANDING UI SMOKE (S11-v2) **17/17 ×2** + gates lens **41** / a16 **5** + **vocab_gate PASS** HARD — **VERDICT = PASS**] (2026-07-08)
+
+**FEATURES:** **#9** (funding — the column HEADER / hover tooltip / units-note VOCABULARY) + **#15** (file-safety GREEN; the controlled-vocabulary gate is now wired into run_all HARD, engine-visible clean). **None beyond #1–#16.** The change is comment/label TEXT only: `git diff HEAD` = exactly 3 visible strings + 7 `//` engine comments; the ONLY two lines carrying executable code (`const w_new = aT / (xT + dx)` and `Math.abs(c * Math.log(strike_theta / mode))`) are BYTE-UNCHANGED — only their trailing comments moved. Engine+state executable code is byte-identical to `abd35f4b` **by construction** (zero code-token delta).
+
+**DESIRABLE:** [#9] the un-endorsed term "lean" is scrubbed from the engine-visible layer per the operator's ruling. Funding column header **"Funding (lean; TBD)" → "Funding (ray dev; TBD)"** (live-read exact); tooltip prefix now **"Funding (same-slope ray deviation from the anchor curve; formula TBD, update-2). PLACEHOLDER: …"** (live-read, prefix regex PASS); units-note **"…the same-slope pool-vs-anchor LEAN (deviation)…" → "…the same-slope pool-vs-anchor SKEW DEVIATION…"** (live-read, contains SKEW DEVIATION / no LEAN). **No visible funding-"lean" anywhere** — live TreeWalker over all visible text nodes + a scan of every `title` attr = 0 funding-"lean" hits (the only remaining "Lean" is the Lean PROVER string "Lean identities I–V", a legitimately different word, excluded). [#15] new HARD `vocab_gate.sh` (registry `docs/VOCABULARY.md`, banned = lean-family + "curvature knob") reports **engine-visible clean** on HEAD AND the `handover/…_5ce1a76c.html` copy.
+
+**UNDESIRABLE:** none. **Behaviorally byte-identical (the key claim) — PROVEN two ways:** (1) by construction, zero code-token delta in the git diff; (2) by re-run — standing UI smoke 17/17 ×2 byte-stable on md5 `5ce1a76c`, `tradeUpdateAt((10,10,5,5),+1,4)` exhibit w=11/21=0.5238095 exact + x=215/22, both charts render (curve 10058 / pricing 11434 nonBlank), m-knob steepens (g_loc 1→6 as m 1→6, mode mark falls), 0 console/pageerror/dialog. Funding numbers/pricing/trade/close all unchanged from the `abd35f4b` accepted run.
+
+**NEUTRAL:** the 3 re-labelled visible strings + 7 engine `//` comments changed "lean"→"skew / ray deviation / (w)" (record-only).
+
+**OPERATOR-VOICE (`history/operator/2026-06-10_kurtosis-curve-family-brief.md`, both [verbatim-transcript]):**
+- Entry 474 (:3479, RULING) — the term is rejected + a GATE ordered: *"lean is a term i dont endorse.. curve skews, and theres a ray deviation from anchor curve as per each same slope point across pool and anchor curves --- using terms like lean or anything i dont endorse or redundant / duplicative  terminoloy / vocabulaty  is a likely cause for conflations; i want a gate for this kind of stuff... now take stokc aain"* → **RULED/RESOLVED(evidence)** — the engine-visible "lean" is gone (live-verified, 0 hits) and the controlled-vocabulary gate is wired HARD + PASS. The endorsed vocabulary ("skew" for the curve, "ray deviation … at each same-slope point" for the funding weight) is what now renders.
+- Entry 476 (:3491, AUTHORIZE + economic ruling) — *"1 fix; 2 same purpose as with perps ...  anything unansweree pending?"* → item 1 (do the cleanup) **DELIVERED** (this build). Item 2 answers the standing OPEN economic question: **funding's purpose is the SAME as with perps (tether / imbalance-correction)** — confirms the shipped direction; recorded as a RULING, but the actual funding FORMULA is still un-built (rides UPDATE-2, F1 open). "anything unanswered/pending?" → yes: the actual funding formula + F1 oracle-independence-as-final, both tracked in the rolling list (NOT presented as resolved).
+
+**EVIDENCE:** `evidence/vocab_relabel/` (RESULT_run{A,B}.json overall=true, A==B modulo run label; {A,B}_bands_funding.png — the on-screen "Funding (ray dev; TBD)" header). Harnesses `engine/verify/pw_vocab_relabel_acceptance.mjs` (A|B) + `engine/verify/pw_update1_standing_smoke.mjs` (17/17 ×2 on this md5). `git diff HEAD -- …HEAD_temporal_mvp_v28_lens.html` = the 76-line text-only delta. Build md5 `5ce1a76c7b75ec3763fda6df9538a841` UNCHANGED pre/post every run (READ-ONLY on the engine). Blobs canonical webp L74 `ab663f5c…` / svg L1060 `c505b08a…`; run_all GREEN (lens 41 + a16 5 + vocab_gate HARD; monolith 8/8 report-only; integrity pin keyed to `5ce1a76c`).
+
+**Table rows updated:** #9 (column header/tooltip/units-note vocabulary "lean"→"ray dev / skew deviation") + #15 (file-safety GREEN + vocab_gate wired HARD) + header re-keyed to HEAD `5ce1a76c`. **VERDICT = PASS — text-only relabel; no number moved (zero code-token delta), the operator-rejected term is gone from the engine-visible layer, and the gate that enforces it is green.**

diff --git a/.claude/agent-memory/tester/MEMORY.md b/.claude/agent-memory/tester/MEMORY.md
@@ -1,5 +1,17 @@
 # MEMORY — tester
-_Last updated: 2026-07-08, after the FUNDING SAME-SLOPE DEVIATION (PLACEHOLDER) LIVE ACCEPTANCE on HEAD `abd35f4bbd59be4fde0565e5981bda71` (funding-only change of `bb2f8230`; closeBand UNTOUCHED; twin `temporal_mvp_v28_lens_twocaseclose.html`=`51342574`). **VERDICT = PASS — focused live acceptance 13/13 ×2 byte-identical + standing UI smoke (S11-v2) 17/17 ×2 + gates lens 35 / a16 5 HARD re-run (exit 0 ×2); DIFF_LEDGER `### abd35f4b` entry + row #9 (weight+label) / #15 (file-safety green) + header re-key + -FUNDING-SAMESLOPE open-question item + FUNDING-FORMULA-UN-BUILT/F1 reconciliation row.** Prior: UPDATE-1 close `bb2f8230` = 10/10 ×2._
+_Last updated: 2026-07-08, after the VOCAB-SCRUB relabel LIVE ACCEPTANCE on HEAD `5ce1a76c7b75ec3763fda6df9538a841` (TEXT-ONLY relabel of `abd35f4b`: operator entries 474/476, term "lean"→"skew / ray deviation" in the Funding column header/tooltip/units-note + 7 engine comments). **VERDICT = PASS — engine+state byte-identical by construction (git diff HEAD = 3 visible strings + 7 // comments; the 2 code-carrying lines byte-unchanged, only trailing comments moved); live acceptance 9/9 ×2 byte-identical + standing UI smoke 17/17 ×2 + gates lens 41 / a16 5 + vocab_gate PASS (HARD); DIFF_LEDGER `### 5ce1a76c` entry + header re-key + row #9/#15 + -FUNDING-SAMESLOPE label-ref update.** Prior: FUNDING same-slope DEVIATION placeholder `abd35f4b` = 13/13 ×2._
+
+## ★★★★★ MOST RECENT — VOCAB-SCRUB relabel acceptance, HEAD `5ce1a76c` = 9/9 PASS ×2 + smoke 17/17 ×2 (operator entries 474/476)
+TEXT-ONLY relabel of `abd35f4b`: operator entry 474 [verbatim] RULED "lean is a term i dont endorse.. curve skews, and theres a ray deviation from anchor curve as per each same slope point…; i want a gate for this kind of stuff"; entry 476 "1 fix; 2 same purpose as with perps". I ran the live browser READ-ONLY (engine md5 UNCHANGED pre/post; only Wrote harness + evidence + ledger).
+- **THE KEY CLAIM (byte-behaviorally identical) — PROVEN by construction:** `git diff HEAD -- …HEAD_temporal_mvp_v28_lens.html` = 76-line delta = exactly 3 visible strings + 7 engine `//` comments. The ONLY two lines carrying executable code (`const w_new = aT / (xT + dx)` and `Math.abs(c * Math.log(strike_theta / mode))`) are BYTE-UNCHANGED — only their trailing comments moved ⇒ engine+state executable code byte-identical to `abd35f4b`, zero code-token delta, no number can have moved.
+- **VISIBLE RELABEL RENDERS (live DOM, portfolio→bands):** Funding column `<th>` text EXACTLY "Funding (ray dev; TBD)" (NOT "lean", NOT "skew dev"); `<th>` title prefix "Funding (same-slope ray deviation from the anchor curve; formula TBD, update-2). PLACEHOLDER…"; visible `.pf-units-note` contains "SKEW DEVIATION", no "LEAN". **No visible funding-"lean" anywhere** — live TreeWalker over visible text nodes + scan of all `title` attrs = 0 funding-"lean" hits (only remaining "Lean" = the Lean PROVER "Lean identities I–V", legitimately different, excluded). ×2 byte-identical.
+- **Behavior re-confirmed live:** tradeUpdateAt((10,10,5,5),+1,4) w=11/21=0.5238095238 exact + x=215/22; m-knob steepens (g_loc 1→6 as m 1→6, mode mark falls m1>m6); both charts render (canvas-curve 10058 / canvas-pricing 11434 nonBlank); 0 console/pageerror/dialog.
+- **Standing UI smoke 17/17 ×2** (`pw_update1_standing_smoke.mjs` on md5 5ce1a76c — build md5-comment auto-picks the file). S6b m-knob 3 distinct chart-2 hashes; S9 OTM close both-on-AMM; S11-v2 ITM leg still reverses. 0 errors.
+- **Gates tester-re-run (run_all exit 0):** lens_selfcheck **41/41** + a16 **5/5** HARD; **vocab_gate PASS** (engine-visible clean on HEAD + handover copy; advisory-internal 108-hit note is non-gating docs); monolith 8/8 report-only. Integrity pin ALREADY keyed to `5ce1a76c` (manager pre-pinned). Blobs canonical webp L74 `ab663f5c…` / svg L1060 `c505b08a…`; md5 unchanged pre/post.
+- **OPERATOR-VOICE:** entry 474 (:3479) RULING → RULED/RESOLVED(evidence) (engine-visible lean gone + gate wired HARD+PASS). entry 476 (:3491): item 1 "fix" DELIVERED; item 2 "same purpose as with perps" = RULING on the standing funding-purpose economic question (tether/imbalance-correction, confirms shipped direction); "anything unanswered/pending?" → the actual funding FORMULA (UPDATE-2) + F1 oracle-independence-as-final stay OPEN (NOT presented resolved).
+- Ledger: `### 5ce1a76c` entry appended (feature map #9 vocabulary + #15 file-safety/vocab-gate + "none beyond"; UNDESIRABLE none; OPERATOR-VOICE 474 RULED / 476 delivered+ruled); table header re-keyed to HEAD `5ce1a76c`; row #9 + #15 updated; -FUNDING-SAMESLOPE open item label-ref updated ("Funding (lean; TBD)"→"Funding (ray dev; TBD)" in 5ce1a76c).
+- Harness `engine/verify/pw_vocab_relabel_acceptance.mjs` (A|B); evidence `evidence/vocab_relabel/` (RESULT_run{A,B}.json overall=true A==B, {A,B}_bands_funding.png). Did NOT git (manager promotes). OPEN handed to manager: actual funding FORMULA (UPDATE-2) + F1 oracle-independence (operator-tier); -B295 items 3/4; -B289 part-2 app list; UPDATE-2 exploit-patch/no-free-money floor parked.
+
 
 ## ★★★★★ MOST RECENT — FUNDING SAME-SLOPE DEVIATION (PLACEHOLDER) acceptance, HEAD `abd35f4b` = 13/13 PASS ×2 + smoke 17/17 ×2 (operator entries 458/459/460/462)
 Funding-ONLY change of `bb2f8230` (closeBand byte-untouched): `fundingPerStrike` WEIGHT replaced — OLD update-1 extrinsic-hump / `ext·(S−1)/S` (funded a symmetric w=½ pool = the recurring ~20–30× regression) → the REAL same-slope pool-vs-anchor RAY-ANGLE-RATIO deviation `dev=|c·ln(θ/mode)|`, `c=(g_a−g)/(g_a+1)`, g=gLoc=m·γ (pool, γ LIVE), g_a=m (anchor w=½). INTENDED PLACEHOLDER — the actual funding FORMULA (HL capped premium→rate) is DEFERRED to UPDATE-2 (entry 462). I ran the LIVE browser layer READ-ONLY (build md5 UNCHANGED pre/post; only Wrote harness + evidence + ledger).
